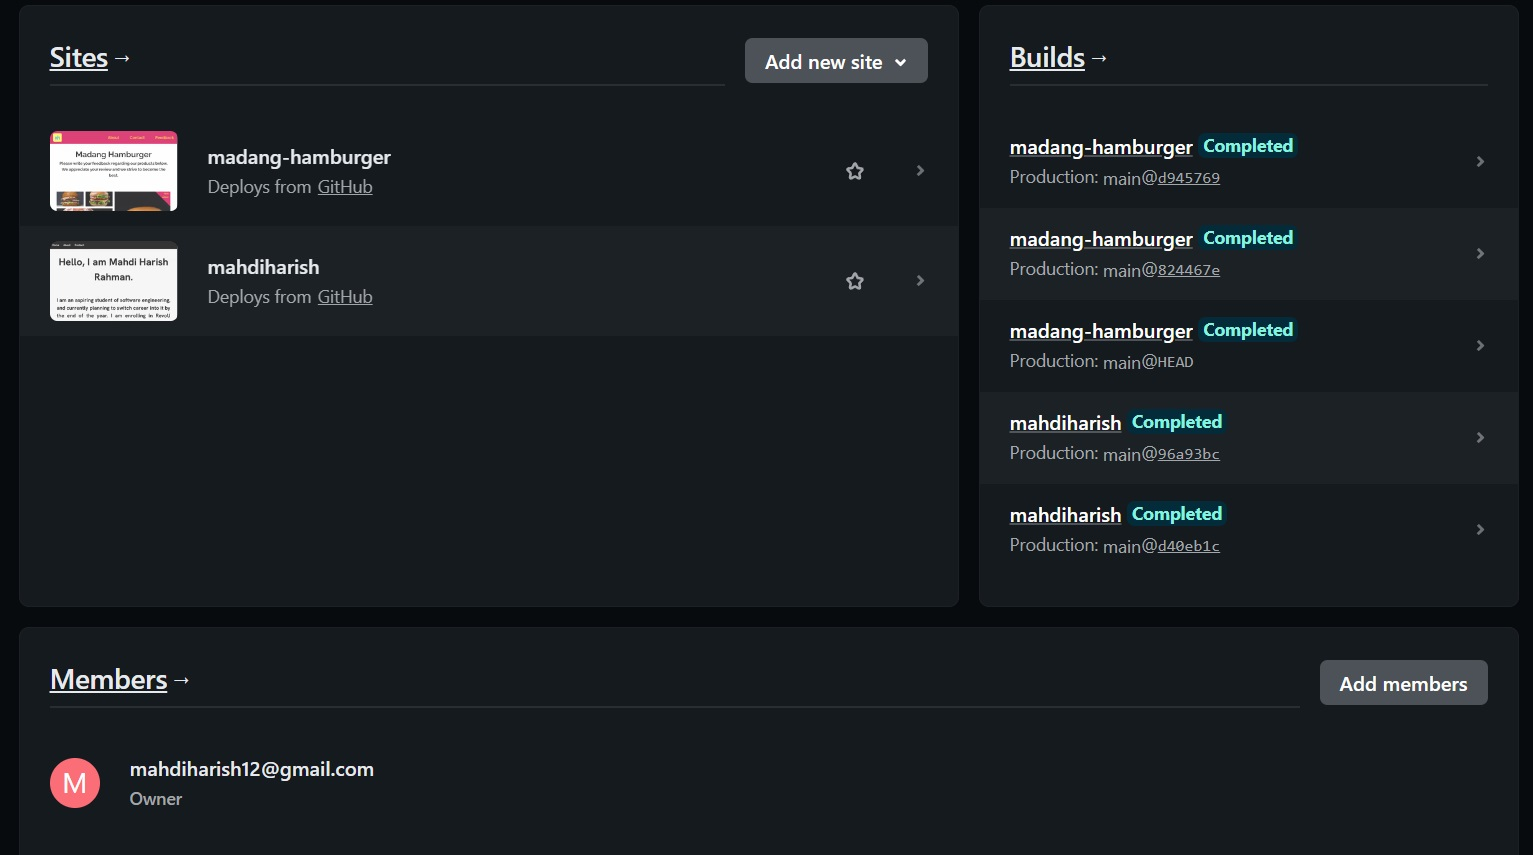
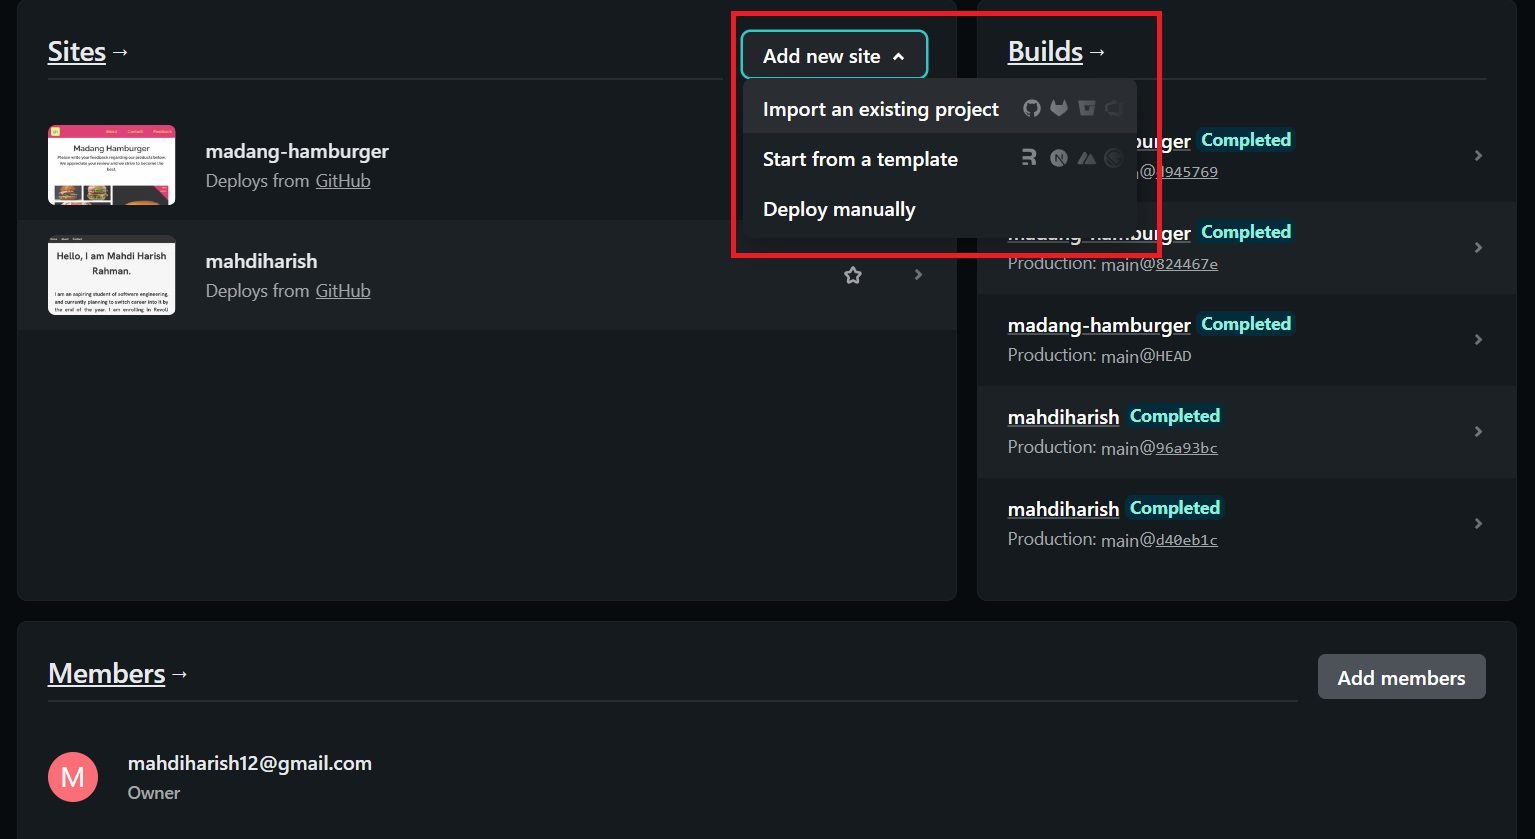
complete steps on deploying website in netlify and buying domain in niagahoster

diff --git a/readme.md b/readme.md
@@ -22,6 +22,66 @@ This is my personal website with custom domain URL.
 
 ![Login/Signup to Netlify](./assets/step-1.jpg)
 
-2. After logging in, you will be directed to team overview's page where you can review your work within Netlify. To deploy our website, we will need to click
-   > Add new site
-   > .
+2. After logging in, you will be directed to team overview's page where you can review your work within Netlify.
+
+![Team overview](./assets/step-2.jpg)
+
+To deploy our website, we will need to click
+
+> Add new site
+
+which is highlighted in picture below.
+
+![Add new site](./assets/step-3.jpg)
+
+There will be few options available, but for now we will deploy it by importing existing projects that we have already done in our GitHub repository.
+
+3. Based from Netlify, there are 3 steps available for this, which can be reviewed below.
+
+![How to deploy website using Netlify](./assets/step-4.jpg)
+
+For this, we can choose GitHub account since we are using GitHub for our repository. You need to authorize your account to GitHub so you can use it.
+
+After that, we can choose which account and repository that will be deployed. You can search the repository by using parts of repository name. It is pretty easy.
+
+![Choose GitHub account and repository](./assets/step-5.jpg)
+
+Now, we can set up our website before we deploy it. There isn't much to do for now beside setting our branch into main for display.
+
+![Set up before deployment](./assets/step-6.jpg)
+
+You will be redirected to your website overview page, where you can review many things, including changing your website's name. However, this step is optional for now as we will be using custom domain. What previewed here is my past work before, so I have changed the website's name before. Initially the website name will be generated randomly.
+
+![Website overview](./assets/step-7.jpg)
+
+## SETTING UP CUSTOM DOMAIN
+
+1. For this step, we need to purchase our own custom domain name. I am using Niagahoster for this reason for few reasons:
+
+- Cheap and affordable,
+- Plenty of options available,
+- Reputable for its service since it's been around for quite long time in Indonesia.
+
+![Niagahoster homepage](./assets/step-8.jpg)
+
+2. You need to sign up/log in with Google Account for using Niagahoster service. It is pretty simple and straightforward step.
+
+3. Later, we can choose which service we need. Choose **Domain** by clicking **Order Sekarang**
+
+![Choose Domain service](./assets/step-9.jpg)
+
+4. Next, we can pick what domain name we like. Choose what's available and its prices to our preference. You can also check if the domain's name is still available or not.
+
+![Checking domain name's availability](./assets/step-10.jpg)
+
+Afterwards, choose what we want and proceed to purchase it.
+
+![Choosing domain name](./assets/step-11.jpg)
+
+5. Complete purchase in this page.
+
+![Purchase page](./assets/step-12.jpg)
+
+6. After we complete our purchase and review it, we can proceed to our domain page in Niagahoster's website, which looks like this.
+
+![Domain page in Niagahoster](./assets/step-13.jpg)
